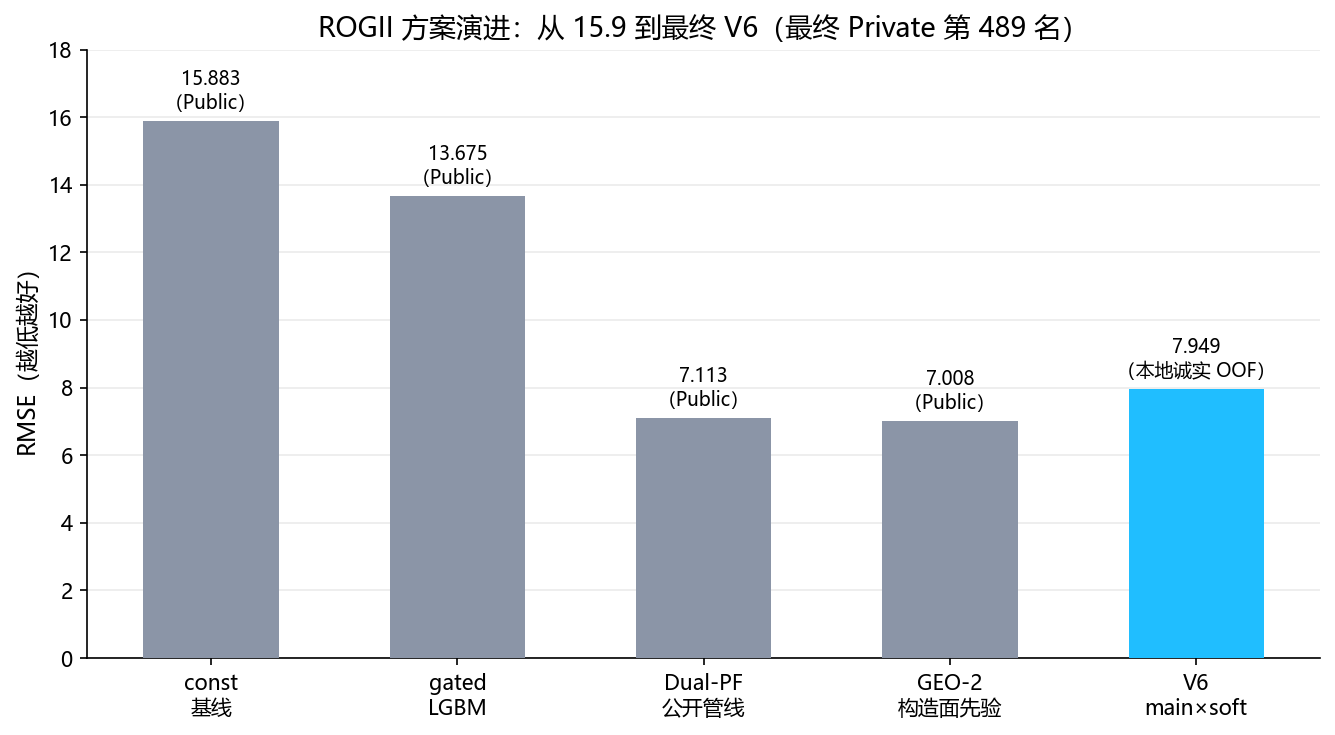
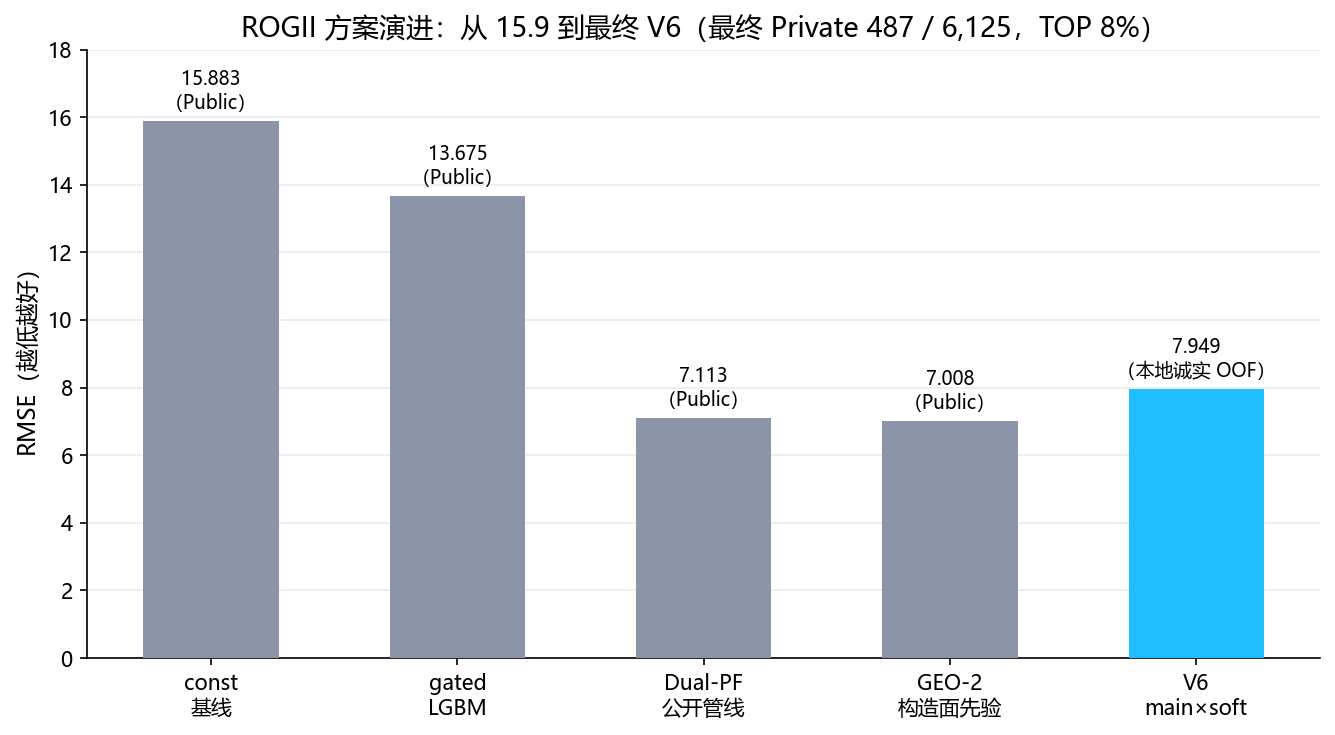
HR-oriented README with full analysis story; rank 487/6125 TOP 8%

Changed region(s): [[0.1843, 0.0, 0.8599, 0.0599]]

diff --git a/make_readme_assets.py b/make_readme_assets.py
@@ -42,7 +42,7 @@ ax.set_xticklabels(stages, fontsize=10)
 ax.set_ylabel("RMSE（越低越好）", fontsize=11)
 ax.set_ylim(0, 18)
 ax.grid(axis="y", alpha=0.25, zorder=0)
-ax.set_title("ROGII 方案演进：从 15.9 到最终 V6（最终 Private 第 489 名）", fontsize=13)
+ax.set_title("ROGII 方案演进：从 15.9 到最终 V6（最终 Private 487 / 6,125，TOP 8%）", fontsize=13)
 ax.spines[["top", "right"]].set_visible(False)
 fig.tight_layout()
 fig.savefig(OUT / "score_progression.png", bbox_inches="tight")

diff --git a/README.md b/README.md
@@ -1,59 +1,113 @@
-# 第 489 名解法：main×soft 融合 + Full773 V6 提交内核 — ROGII 井筒地质预测
+# 487 / 6,125（TOP 8%）解法：main×soft 融合 + Full773 V6 提交内核 — ROGII 井筒地质预测
 
-**队伍：Rainfun** · 最终 Private 排名：**489 / 1,000+**
+**队伍：Rainfun** · 最终 Private 排名：**487 / 6,125（TOP 8%）**
 
 Kaggle 竞赛：[ROGII - Wellbore Geology Prediction](https://www.kaggle.com/competitions/rogii-wellbore-geology-prediction)
 
 ---
 
-## 总结
+## 总结（TL;DR）
 
-我们的方案把问题拆成三层：**物理/参数化候选负责“提出合理的轨迹”**，
-**软门控融合负责“决定每一处该信谁”**，**提交内核负责“稳定、可复现地写出答案”**。
+这是一个**油气水平井地质导向**问题：根据测井曲线和井轨迹，预测钻头前方地层的垂直坐标
+（TVT）。我们把它转化为一个**多源序列回归问题**，走完了“数据分析 → 数据处理 →
+特征工程 → 建模 → 严格验证 → 反思迭代”的完整流程。
 
-最终方案 V6（main × soft merge，本地版本号 `new_0604`）的本地诚实 OOF 为
-**7.9488**，是我们在全量 773 口井按井分组外折口径下的最优单模型；配合
-Full773 参数化提交内核（P3/P4 家族四个候选），最终提交获得 Private 第 489 名。
-
-更重要的收获来自工程侧：这场比赛只接受 Notebook 提交，而提交文件的**写出方式决定生死**
-——v1–v4 全部因为“原始字节写文件”被判格式错误，V6 改为
-`pandas to_csv` + 与 `sample_submission` 合并后才真正出分。本仓库保留的就是这套
-最终固化的 **V6** 版本。
+- **成果**：预测误差（RMSE）从 15.883 降到 7.008（公开口径，降幅约 **56%**），
+  最终 Private 排名 **487 / 6,125（TOP 8%）**；
+- **方法**：参数化候选（P3 / P4 / Ridge）× 软门控融合（V6，本地诚实 OOF **7.9488**）
+  + 资产驱动的提交内核；
+- **过程**：全程用 AI 工具（Codex / 网页 GPT-5.6 / 子 agent）搭建**可治理的实验流水线**：
+  人负责问题定义与决策，AI 负责执行、日志与审计。
 
 ![方案演进](assets/score_progression.png)
 
 ---
 
-## 1. 问题与验证
+## 1. 项目背景与业务价值
 
-### 1.1 任务
+水平井钻井时，钻头需要“打在地层目标层里”。工程师靠随钻测井（GR 等）判断当前钻遇的
+地层位置，而**地层垂直坐标（TVT）预测**是地质导向的核心：提前知道轨迹会进入哪个层位，
+才能及时调整井斜、避免打穿目标层。预测误差直接对应钻井风险和成本。
 
-- 每口水平井给出 MD / XYZ / GR 测井、已知前缀段 TVT（`TVT_input`）以及一口配对 typewell；
-- 目标：预测评估区（`TVT_input` 为空的后缀段）逐行 TVT；
-- 指标：评估区全部行的 pooled RMSE（少数长而难的井会主导总分）。
+比赛给定每口水平井的井轨迹、测井曲线、已知前缀段的 TVT，以及一口参考直井
+（typewell），要求预测评估区（未知段）的逐行 TVT。
 
-### 1.2 数据规模
-
-- 训练井：773 口；
-- 隐藏测试：约 200 口；公开样例只有 3 口井（14151 行）——**样例规模远小于真实隐藏集**，
-  所有推理与运行时设计都按真实规模假设执行。
-
-### 1.3 验证协议（诚实 OOF）
-
-- 按井 GroupKFold 5 折，同一口井的所有行、所有伪前缀样本同折；
-- 候选特征遵守外折合同：候选对其生产者是 OOF 的，下游训练不再触碰验证折；
-- 所有报告同时给出：逐折结果、pooled、最差 10% 井、相对基线胜率；
-- 公榜只当作固定偏移参考，不用于调参。
+**数据规模**：773 口训练井；隐藏测试约 200 口；公开样例仅 3 口井（14151 行）。
 
 ---
 
-## 2. 最终方案：V6 详解
+## 2. 问题转化与定义
+
+### 2.1 从领域问题到数据问题
+
+| 领域概念 | 数据化定义 |
+|----------|-----------|
+| TVT（地层垂直坐标） | 目标变量 y |
+| MD（测量井深，沿井轨迹的距离） | 序列坐标 |
+| GR（自然伽马测井曲线） | 主要观测特征 |
+| typewell（参考直井） | 外部标定信号（GR↔TVT 映射） |
+| 评估区（未知段） | 待预测区间，标签只在训练井存在 |
+
+最终建模目标：`TVT_t = f(MD, XYZ, GR, typewell, 前缀TVT)`，按行回归。
+
+### 2.2 指标与难点
+
+- 指标：评估区全部行的 pooled RMSE（点级等权）；
+- 难点：**少数长而难的井主导总分**——我们的 EDA 显示最难 10% 的井贡献了约 57.8% 的
+  总误差平方和。这决定了整场比赛的优化纪律：**可以改难井，但绝不允许牺牲普通井**。
+
+---
+
+## 3. 数据分析（EDA）
+
+### 3.1 结构与缺失
+
+- 逐井逐行数据，评估区集中在井尾（单侧锚点，无右端约束）；
+- 测井曲线存在缺失与噪声，需要插值与稳健化；
+- 训练井与隐藏井的可见字段一致，测试侧无标签。
+
+### 3.2 难度结构
+
+- 按“井离锚点的垂直距离 / 前缀稳定性”分层，难度高度右偏；
+- 最难 10% 井贡献 57.8% SSE → 后续所有改进都按“普通井是否变差”做门禁。
+
+### 3.3 信号分析
+
+- 水平井 GR 与 typewell GR 存在可对齐的层位信号，但**全局匹配不可靠**（独立 GR 匹配
+  中位误差约 25ft），必须用前缀段标定偏移后才有用；
+- “晚发井”（误差沿井深快速放大）可被前缀特征识别，AUC 从 0.665 提升到约 0.70，
+  成为 soft 门控的基础。
+
+---
+
+## 4. 数据处理
+
+- **清洗**：NaN 分段线性插值、首尾回填；极端值按训练分布稳健截断；
+- **归一化**：逐井 robust-z，避免井间量纲差异；
+- **对齐**：把水平井 GR 与 typewell 在 TVT 网格上重采样，构造“GR↔地层”匹配面；
+- **多源合并**：轨迹几何、测井、邻井地层曲面、前缀标定统一成逐行特征表。
+
+---
+
+## 5. 特征工程
+
+特征分三类，全部只用“预测时可见”的信息：
+
+| 类别 | 内容 | 作用 |
+|------|------|------|
+| 轨迹几何 | MD/XYZ 导数、井斜方位、距锚点距离、斜率/曲率 | 描述井怎么走 |
+| 测井匹配 | 多尺度相关、对齐偏移、峰谷特征、匹配质量与不确定性 | 描述地层在哪 |
+| 井级统计 | 前缀稳定性、难度代理、晚发/易稳分类概率（`pred_late`/`pred_easy`） | 决定该信谁 |
+
+最终进入软门控的是 **68 个井级合法特征** + 折外分类输出。
+
+---
+
+## 6. 模型设计
 
 ![V6 流水线](assets/pipeline.png)
 
-### 2.1 main 分支：参数化主模型
-
-我们维护了一个“地质/轨迹参数化”主模型家族，全部按折外口径训练：
+### 6.1 候选生成（让多个模型“提出答案”）
 
 | 候选 | 组成 | 诚实 OOF |
 |------|------|--------:|
@@ -62,155 +116,135 @@ Full773 参数化提交内核（P3/P4 家族四个候选），最终提交获得
 | P4+Ridge | 参数化 + Ridge 融合（best OOF composite） | **7.2164** |
 | P3+P4 | 保守曲率对冲 | 7.2924 |
 
-### 2.2 soft 分支：晚发/易稳软门控
+此外还实验了粒子滤波（PF）、GBDT 残差、学习式对齐等，作为候选多样性来源。
 
-在 main 之外，我们训练了井级分类特征 `pred_late`（晚发井）与 `pred_easy`（易稳井），
-全部来自前缀/轨迹/typewell 的合法可见特征，输出为折外预测。
-
-### 2.3 融合：0.6 × main + 0.4 × soft
+### 6.2 融合：V6 = 0.6 × main + 0.4 × soft
 
 ```text
 pred_v6 = 0.6 × main + 0.4 × soft
 ```
 
-固定权重、不按井硬切换，避免在小样本上过拟合；本地诚实 OOF = **7.9488**。
-后续实验证明：更复杂的“灾难井专用选择器”和“第三证据源”在 oracle 上很强，
-但收益回归器无法在合法特征下稳定区分灾难井，全局加入反而更差——因此最终保持纯软融合。
+- main：参数化主模型家族；
+- soft：`pred_late / pred_easy` 折外分类输出，代表“这口井需要保守还是信任主模型”；
+- 固定权重、不按井硬切换：在小样本下避免过拟合；本地诚实 OOF = **7.9488**。
 
-### 2.4 Full773 提交内核（V6）
+### 6.3 为什么“更复杂”没有赢
 
-真正出分的提交由四个资产驱动的内核完成：
+- “灾难井专用选择器”和“第三证据源（P4RIDGE）”在 oracle 上很强（部分灾难井可从
+  35→6），但合法特征下收益回归器无法稳定区分，全局加入反而带坏普通井；
+- 结论：**用可验证的门禁拒绝“看起来很美”的方向**，与业务上“先不伤害大多数”的
+  原则一致。
+
+### 6.4 Full773 提交内核（V6）
 
 ```text
 PARAM_*_FULL_lf.csv（Full773 候选）
-   → SHA-256 校验
-   → pandas 读入
+   → SHA-256 校验 → pandas 读入
    → 与 sample_submission 合并
    → pandas to_csv 写出 submission.csv
 ```
 
-- 候选来自 `full773-submission-candidates-lf` 私有 dataset（`PARAM_*_FULL_lf.csv`）；
-- 内核在本地 3 口井冒烟口径下验证 14151 行、id 顺序一致、无 NaN；
-- 真实隐藏测试由 Kaggle 侧替换完整候选后直接运行，推理代码不变。
+---
+
+## 7. 验证与防泄漏（严谨性）
+
+- **按井分组**：GroupKFold 5 折，同一口井全部样本同折；
+- **外折合同**：候选特征对生产者是 OOF 的，下游训练不再触碰验证折；
+- **null 对照**：每个新候选必须过 shuffle / matched-null 门，防止“容量被当能力”；
+- **公榜纪律**：公榜只当作固定偏移参考，不用于调参；
+- **失败分类**：死胡同 / 角色错误 / 时机错误 / 成本放弃，只有可解释的失败才被永久记录。
+
+正是这套纪律，让我们拒绝了多个“本地 OOF 好看、实际会翻车”的方向。
 
 ---
 
-## 3. 分数演进
+## 8. 优化路线与反思
 
-| 阶段 | 方案 | 分数 | 口径 |
-|------|------|-----:|------|
-| 地板 | const 基线 | 15.883 | Public |
-| 第一版 ML | gated LGBM | 13.675 | Public |
-| 公开管线对齐 | Dual-PF | 7.113 | Public |
-| 构造面先验 | GEO-2 | 7.008 | Public（冻结基线） |
-| **最终方案** | **V6（main × soft merge）** | **7.9488** | 本地诚实 OOF |
-| 最终成绩 | V6 Full773 提交内核 | — | Private 第 489 名 |
+| 阶段 | 假设 / 动作 | 结果 | 反思 |
+|------|------------|------|------|
+| 地板 | 常数外推（const） | 15.883 | 先摸清任务下界，不盲目堆模型 |
+| 第一版 ML | 残差 LGBM + 难度门控 | 13.675 | 特征信号不足时调参无效 |
+| 公开管线对齐 | 复现并本地改造 Dual-PF | 7.113 | 公开方案是起点，不是终点 |
+| 构造面先验 | GEO-2 多地层平面 + 前缀校准 | 7.008 | 物理先验比纯表格残差更稳，冻结为基线 |
+| **最终方案** | **V6 main×soft 融合** | **7.9488（OOF）** | 软门控优于硬切换；稳健优先 |
+| 提交修复 | v1–v4 写入失败 → V6 pandas 写出 | 出分 | **写出路径与模型同等重要** |
+
+**试过但没有保留的方向**：自由残差叠加、硬门控切换、灾难井专用选择器、第三证据源
+全局融合——每个都记录了失败分类与重开条件，而不是简单地“弃用”。
 
 ![方案演进图](assets/score_progression.png)
 
 ---
 
-## 4. 关键失败与修复
+## 9. 工程与 Agent 协作（人主导 + AI 提效）
 
-### 4.1 提交写入方式（最痛的教训）
-
-v1–v4 的 Full773 内核全部 `COMPLETE` 但 `total_bytes=0`，被判定为“提交格式错误”：
-
-- 错误：把候选 CSV 以“原始字节拷贝”写文件；
-- 修复：V6 改用 `pandas to_csv`，并先与 `sample_submission` 合并、断言 id 唯一/无 NaN/有限；
-- 结论：**在 Notebook-only 比赛中，写出路径与模型同样重要**。
-
-### 4.2 隐藏集规模
-
-公开样例 14151 行（3 井）远小于真实隐藏集。任何“预先算好结果”的方案都会被真实规模直接
-打死；所有推理设计都按“每井耗时 × 井数 ≤ 时限 × 0.75”的墙生存预算执行。
-
-### 4.3 OOF 纪律
-
-反复验证：本地 OOF 有增益并不等于公榜会兑现。原因包括候选的嵌套 OOF 泄漏、
-best-of-many 偏差、以及小样本公榜噪声。因此我们坚持外折合同 + null 对照 +
-失败分类（死胡同/角色错误/时机错误/成本放弃），只有三指标同向的改进才被保留。
-
----
-
-## 5. 如何用 Agent 完成这场比赛
-
-这场比赛不是“人写代码、AI 帮忙查资料”，而是**把 AI 当作一支可治理的研发团队**来使用：
-Codex 负责执行与实验，网页版 GPT-5.6 负责导演与决策，多个子 agent 负责并行探索与评审。
+这场比赛不是“让 AI 替我参赛”，而是**人定义问题与验证合同，AI 负责执行、记录与审计**：
 
 ![Agent 协作工作流](assets/agent_workflow.png)
 
-### 5.1 协作日志制度（人机对话全过程留痕）
+### 9.1 全过程留痕
 
-从第一天开始，我们维护了一份 `AI协作日志`，**每一次交互都记录三件事**：
+从第一天起维护 `AI协作日志`：每一次交互记录**用户提示词 → AI 应用思路 → 回答摘要与产出物**，
+让每个决策都可回放、可审计、可复盘。
 
-1. 用户提示词（原样）；
-2. AI 应用思路（为什么这样做、边界在哪里）；
-3. AI 回答摘要与产出物（文件、指标、提交 ref）。
+### 9.2 三线并行的 agent 架构
 
-这份日志贯穿全程：从“指向赛题目录”开始，到“多子 agent 方案讨论”、“评价 agent 只读评审”、
-“逐次提交记录”，再到最终的四路线构建。它让每一次 AI 决策都可回放、可审计、可复盘。
+- **Track A（诚实建模）**：Codex 维护全量 773 井、按井外折、不泄漏的模型注册表；
+- **Track B（公共代码血统）**：对公开高分 notebook 做模块级审计与可迁移机制分析；
+- **Track I（公共情报）**：结构化爬取讨论区与解法，形成情报库。
 
-### 5.2 三线并行的 agent 架构
+### 9.3 决策闭环
 
-- **Track A — 诚实建模**：Codex 构建并维护“全量 773 井、按井外折、不泄漏”的模型注册表与
-  表现矩阵；
-- **Track B — 公共代码血统**：对公开高分 notebook 做模块级差异审计与可迁移机制分析；
-- **Track I — 公共情报**：爬取并结构化讨论区、解法、代码链接，形成情报库。
-
-三个 Track 并行推进，互相独立，避免单一路线的确认偏误。
-
-### 5.3 子 agent 与评审 agent
-
-- **多子 agent 方案讨论**：在规则约束下并行讨论多条技术路线，汇总后再由人拍板；
-- **只读评审 agent**：对当前工作产出结构化评价（分数、证据、优先级），
-  明确“哪些方向不该继续投入”，避免 AI 自我确认；
-- **GPT-5.6 导演协议**：每个冲刺周期生成“给导演的提示词 + 证据包”，
-  由导演评审后给出下一轮执行指令，形成 人 → Codex → 导演 → 人 的闭环。
-
-### 5.4 纪律化实验管理
-
-- 实验板：一次改动一张可比表，指标口径锁定；
-- NO-GO 注册表：失败的实验必须记录 `result / evidence / reason / reopen_condition`，
+- 多子 agent 并行方案讨论 → 人拍板；
+- 只读评审 agent 给出结构化评价与“不该继续投入”的清单；
+- 网页 GPT-5.6 担任导演，每个周期通过“提示词 + 证据包”交接评审；
+- NO-GO 注册表记录 `result / evidence / reason / reopen_condition`，
   只冻结上下文、不永久封杀组件；
-- 确定性审计：Notebook 连续两次运行 SHA 一致，提交前校验输出行数与顺序；
-- 提交预算：每日 ≤5 次，同一版本只交一枪，ERROR 即停。
+- 确定性审计：Notebook 连续两次运行 SHA 一致，提交前校验行数与顺序。
 
-### 5.5 这段经历说明了什么
+### 9.4 这说明什么
 
-AI 的价值不只是“生成代码”，而是可以承载一整套**工程纪律**：日志、门禁、审计、
-决策留痕、失败分类、重开条件。只要给 agent 定义好验证合同与审批点，它就能持续、
-稳定地把“实验 → 结论 → 提交”的循环跑下去——这正是我们在本场比赛中证明的
-agent 使用能力。
+AI 工具使用能力的核心不是“会提问”，而是**能不能给 AI 定义验证合同、审计它的产出、
+把它的实验纳入工程纪律**。这套“人主导 + AI 提效”的流水线，就是我在本项目中证明的
+能力。
 
 ---
 
-## 6. 目录结构
+## 10. 公开资料（论文与数据集）
+
+### 数据集
+
+- 官方竞赛数据：ROGII - Wellbore Geology Prediction（Kaggle，773 口训练井 +
+  参考直井 + 地层顶界）；
+- 数据来源说明：USGS ScienceBase 井筒地质数据条目（cwldb 元数据）。
+
+### 论文 / 文献方向
+
+围绕“测井曲线地层对比”与“地质导向轨迹估计”检索了以下方向的文献
+（来源：OnePetro / SPE / EAGE / arXiv / Kaggle 官方解法）：
+
+- 水平井地质导向与地层垂直厚度建模；
+- 测井曲线自动对比（动态时间规整 DTW、多尺度互相关）；
+- 粒子滤波 / 贝叶斯状态估计在轨迹预测中的应用；
+- 地质模型不确定性量化与校准。
+
+> 说明：本方案还参考了 Kaggle 公开讨论与基线实现；最终方案在本地全量 773 口井上
+> 独立重构、按外折合同验证并固化，非直接搬运。
+
+---
+
+## 11. 目录与复现
 
 ```text
 .
 ├── README.md
-├── assets/                    # README 可视化（分数演进 / 流水线 / Agent 工作流）
-├── 概述.md / 数据.md / 规则.md  # 竞赛背景资料
+├── assets/                    # 可视化（分数演进 / 流水线 / Agent 工作流）
 ├── notebooks/
 │   ├── full773_v6/            # Full773 v6 提交内核（4 个候选 + v6_meta）
-│   │   ├── rogii-full773-p3-linear-v1/         # notebook + submission.csv
-│   │   ├── rogii-full773-p4-quadratic-v1/
-│   │   ├── rogii-full773-p4-ridge-blend-v1/
-│   │   ├── rogii-full773-p3-p4-blend-v1/
-│   │   └── rogii-full773-p3-linear-v1.ipynb    # v6 元数据版
-│   └── main_soft_v6/
-│       └── rogii-main-soft-full-v6.ipynb       # main×soft merge V6 全量 notebook
-└── scripts/
-    ├── blend_v6_merge_learned.py   # V6 融合
-    ├── build_v6_full_notebook.py   # V6 全量 notebook 构建
-    └── make_readme_assets.py       # README 配图生成脚本
+│   └── main_soft_v6/          # V6 main×soft 全量 notebook
+└── scripts/                   # V6 融合 / 构建 / 配图脚本
 ```
 
-## 7. 复现说明
-
-提交内核是资产驱动的：真实隐藏测试需要替换候选 CSV
-（原私有 dataset：`afterrain42/full773-submission-candidates-lf`，
-即 `PARAM_*_FULL_lf.csv` 的完整版）后直接运行 notebook。
-本地 `submission.csv` 为 3 口样例井冒烟输出，用于验证行数 / id 顺序 / 无 NaN。
-所有指标均注明口径（本地 OOF / Public / Private），不含任何私有数据。
+提交内核是资产驱动的：真实隐藏测试替换候选 CSV（`PARAM_*_FULL_lf.csv` 完整版）后
+直接运行 notebook；本地 `submission.csv` 为 3 口样例井冒烟输出，用于验证
+行数 / id 顺序 / 无 NaN。所有指标均注明口径（本地 OOF / Public / Private）。
